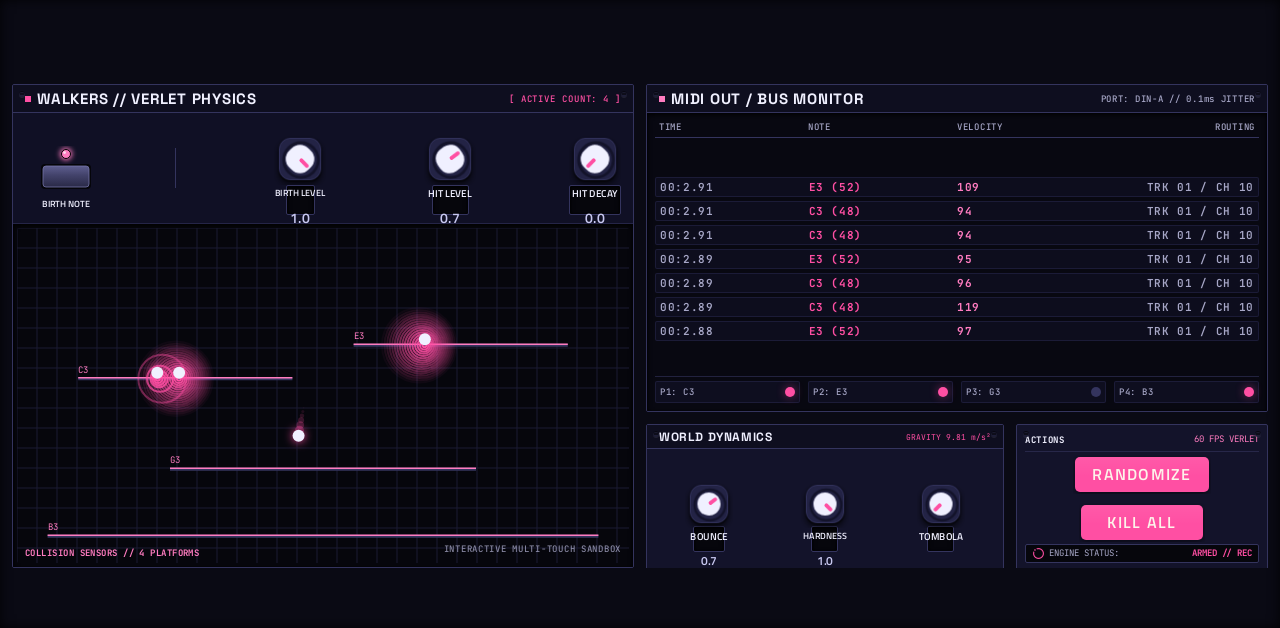
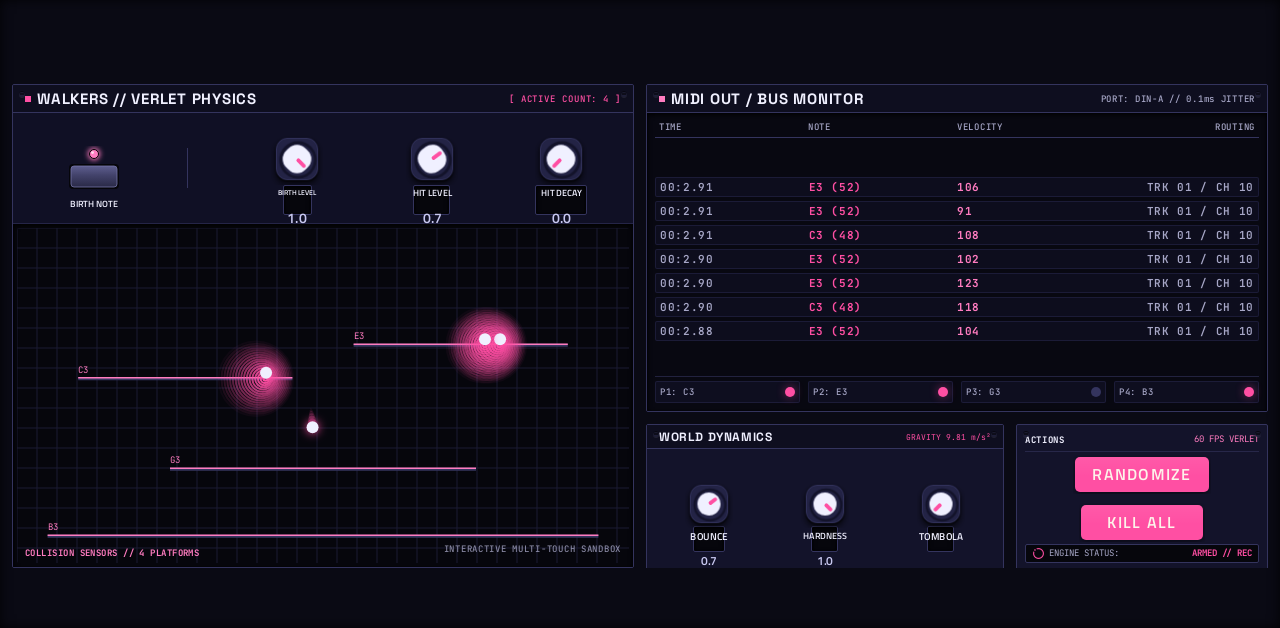
PixelWalkers, MIDI Player: design QA -- a Q-Link column per panel, actions touch only

diff --git a/DESIGN-QA.md b/DESIGN-QA.md
@@ -1,0 +1,24 @@
+# Design QA: PixelWalkers
+
+Status: done offline (2026-10-03), **waiting for the device check**.
+
+## Owner's notes
+None specific; checked against the batch rules (one Q-Link column per panel, as Moog; outlines that frame one
+panel; utility buttons in their own box and off the Q-Links).
+
+## What changed
+Q-Link columns before → after ("-" = an empty slot):
+
+| Page | before | after |
+|---|---|---|
+| MAIN | 1 BIRTH NOTE, BIRTH LEVEL, HIT LEVEL, HIT DECAY  ·  2 BOUNCE, HARDNESS, TOMBOLA, RANDOMIZE  ·  3 KILL ALL | 1 BIRTH NOTE, BIRTH LEVEL, HIT LEVEL, HIT DECAY  ·  2 BOUNCE, HARDNESS, TOMBOLA |
+
+- RANDOMIZE and KILL ALL were on the Q-Links (column 2 and 3), so turning a knob fired them. They're touch only now,
+  in their ACTIONS box, as on Aphex.
+- WALKERS | WORLD DYNAMICS, a column each; the WALKERS row moved in from the edges so its outline stays inside the
+  panel (it reached into MIDI OUT).
+
+Made in the design (convert.py MAPS `augment` / `qlinks`), so a rerun keeps it.
+
+## Checked
+Offline test PASSED; check_skin OK; no Q-Link outlines overlap (qlink_overlay.py).

diff --git a/README.md b/README.md
@@ -31,7 +31,7 @@ Screenshots are rendered from the built skin with the engine's real values right
 
 <img src="screenshots/page_0.png" width="760" alt="Pixel Walkers, page MAIN">
 
-Q-Link columns: **1** BIRTH NOTE, BIRTH LEVEL, HIT LEVEL, HIT DECAY  ·  **2** BOUNCE, HARDNESS, TOMBOLA, RANDOMIZE  ·  **3** KILL ALL
+Q-Link columns: **1** BIRTH NOTE, BIRTH LEVEL, HIT LEVEL, HIT DECAY  ·  **2** BOUNCE, HARDNESS, TOMBOLA
 
 ## Install
 
